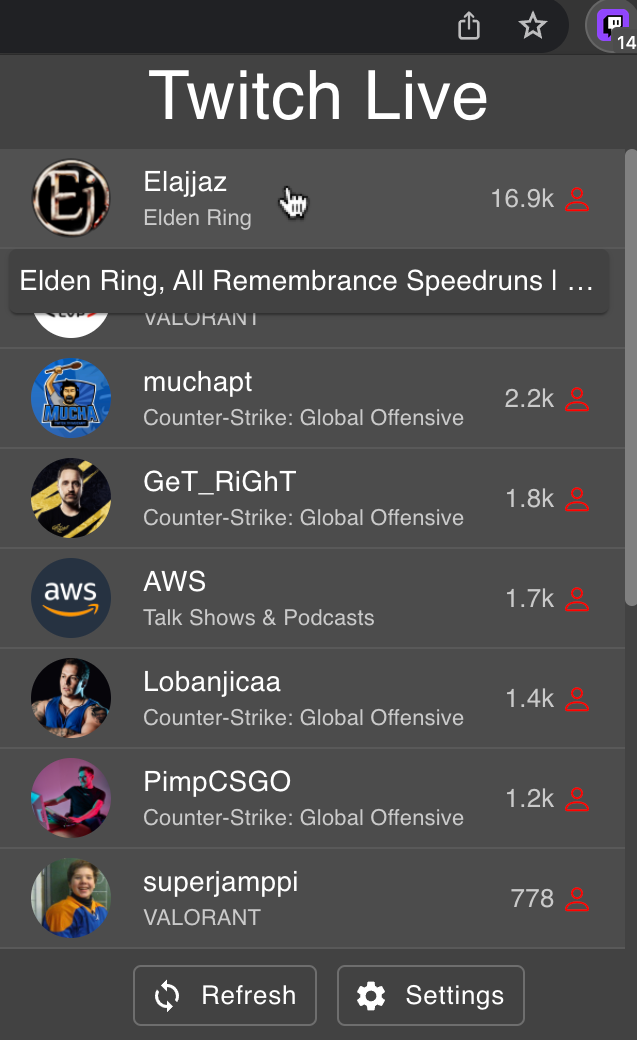
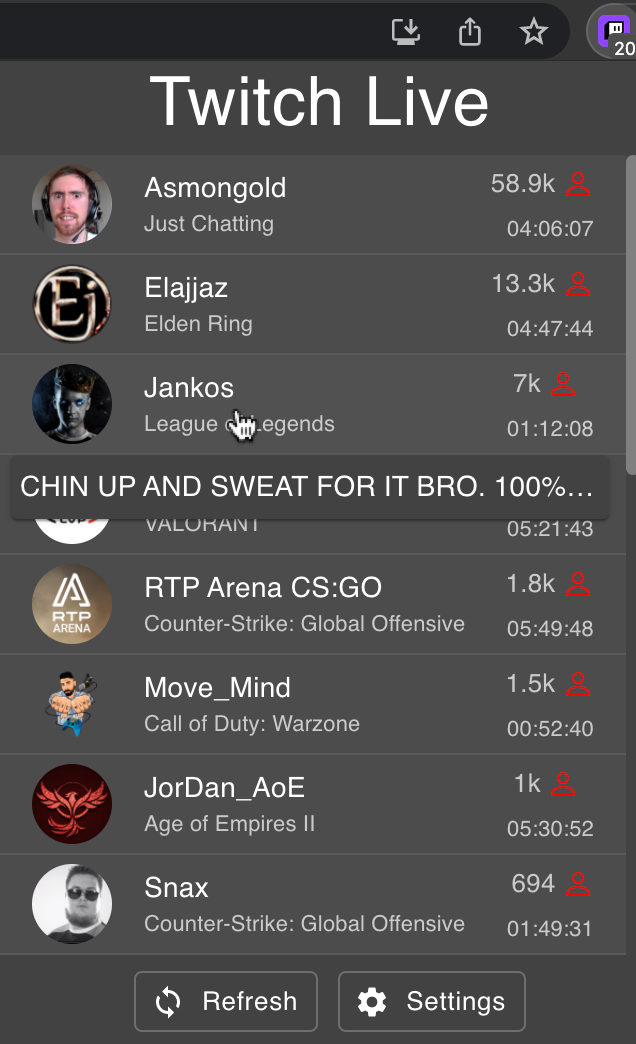
Add elapsed time (#18)
* Add debug code for the feature

* SetInterval for time update, remove debug code

* Update version and add new change log

* fix typo

* Change version description

diff --git a/src/views/LiveStreamPage/LiveStreamList/LiveStreamListItem/LiveStreamListItem.tsx b/src/views/LiveStreamPage/LiveStreamList/LiveStreamListItem/LiveStreamListItem.tsx
@@ -1,4 +1,4 @@
-import React from 'react';
+import React, { useEffect, useState } from 'react';
 
 import {
     Avatar,
@@ -10,7 +10,7 @@ import {
     Typography,
 } from '@material-ui/core';
 import { makeStyles } from '@material-ui/core/styles';
-import { formatViewers } from '../../../../utils/formatter';
+import { formatViewers, getElapsedTime } from '../../../../utils/formatter';
 import { FollowedLivestream } from '../../../../domain/infrastructure/twitch/twitch';
 import { ViewerIcon } from '../../../../components/SVG/viewerIcon';
 import { PopperTitle } from './PopperTitle';
@@ -24,9 +24,17 @@ const useStyles = makeStyles({
     gameText: {
         fontSize: 11,
     },
+    streamerDiv: {
+        paddingRight: 5,
+    },
     viewersText: {
         fontSize: 13,
         paddingRight: 3,
+    },
+    elapsedTimeText: {
+        fontSize: 11,
+        textAlign: 'right',
+        paddingBottom: 4,
     },
 });
 
@@ -36,6 +44,15 @@ export const LiveStreamListItem = (elem: FollowedLivestream) => {
     const handlePopoverOpen = (event: React.MouseEvent<HTMLElement, MouseEvent>) => {
         setAnchorEl(event.currentTarget);
     };
+    const [elapsedTime, setElapsedTime] = useState(getElapsedTime(elem.started_at));
+
+    useEffect(() => {
+        const timer = setInterval(() => {
+            setElapsedTime(getElapsedTime(elem.started_at));
+        }, 1000);
+
+        return () => clearInterval(timer);
+    }, [elem.started_at]);
 
     const handlePopoverClose = () => {
         setAnchorEl(null);
@@ -61,6 +78,7 @@ export const LiveStreamListItem = (elem: FollowedLivestream) => {
                     <Avatar src={elem.profile_image_url} />
                 </ListItemAvatar>
                 <ListItemText
+                    className={classes.streamerDiv}
                     primary={elem.display_name}
                     secondary={
                         <Typography
@@ -85,6 +103,14 @@ export const LiveStreamListItem = (elem: FollowedLivestream) => {
                         </Typography>
                         <ViewerIcon />
                     </IconButton>
+                    <Typography
+                        noWrap
+                        variant={'subtitle2'}
+                        color={'textSecondary'}
+                        className={classes.elapsedTimeText}
+                    >
+                        {elapsedTime}
+                    </Typography>
                 </ListItemSecondaryAction>
             </ListItem>
             <PopperTitle title={elem.title} anchorEl={anchorEl} open={open} />

diff --git a/src/utils/formatter.ts b/src/utils/formatter.ts
@@ -10,3 +10,17 @@ export const formatViewers = (viewers: number): string =>
  * @param {Date} date - Date to be converted to string
  */
 export const formatDate = (date: Date): string => date.toJSON().replace('T', ' ').split('.')[0];
+
+export const getElapsedTime = (streamTimestamp: string) => {
+    const streamDate = new Date(streamTimestamp);
+
+    const difference = Date.now() - streamDate.getTime();
+
+    const seconds = Math.floor((difference / 1000) % 60);
+    const minutes = Math.floor((difference / (1000 * 60)) % 60);
+    const hours = Math.floor((difference / (1000 * 60 * 60)) % 24);
+
+    return `${hours.toString().padStart(2, '0')}:${minutes
+        .toString()
+        .padStart(2, '0')}:${seconds.toString().padStart(2, '0')}`;
+};

diff --git a/CHANGELOG.md b/CHANGELOG.md
@@ -1,80 +1,85 @@
 # Changelog
 
+## 3.1.0 (April 5th, 2021)
+
+### Functionalities:
+- Shows how long a stream has been live
+
 ## 3.0.3 (March 15, 2021)
 
-### Fixes and Functionality:
+### Fixes:
 
 - Update extension description
 
 ## 3.0.2 (March 14, 2021)
 
-### Fixes and Functionality:
+### Functionalities:
 
 - Adds a badge icon with the current number of livestreams
 
 ## 3.0.1 (July 14, 2021)
 
-### Fixes and Functionality:
+### Fixes:
 
 - Fix extension name
 
 ## 3.0.0 (July 14, 2021)
 
-### Fixes and Functionality:
+### Functionalities:
 
 - Use of new Twitch endpoint Get Live Followed Streams
 - Use specific scopes to call the new endpoint
-- Removed button to sync follows
-- Refactored reducer and Twitch api code
+- Removes button to sync follows
+- Refactores reducer and Twitch api code
 
 ## 2.3.0 (April 30, 2021)
 
-### Fixes and Functionality:
+### Functionalities:
 
 - Display title on mouse over a stream 
 
 ## 2.2.0 (March 1, 2021)
 
-### Fixes and Functionality:
+### Functionalities:
 
-- Added "Just went live" notifications feature
-- Added background file to get token and set alarm
+- Adds "Just went live" notifications feature
+- Adds background file to get token and set alarm
 - On extension update, open the changelog page with the new features
 
 ## 2.1.2 (January 6, 2021)
 
-### Fixes and Functionality:
+### Fixes:
 
-- Upgrade **_axios_** version to fix vulnerability
-- Upgrade **_react-scripts_** version to fix vulnerability
-- Update linting rules
+- Upgrades **_axios_** version to fix vulnerability
+- Upgrades **_react-scripts_** version to fix vulnerability
+- Updates linting rules
 
 ## 2.1.1 (November 13, 2020)
 
-### Fixes and Functionality:
+### Functionalities:
 
-- Removed "storage" permission from manifest.json
+- Removes "storage" permission from manifest.json
 
 ## 2.1.0 (November 11, 2020)
 
-### Fixes and Functionality:
+### Functionalities:
 
-- Added Twitch authentication using OAuth2
-- Migrate all the api calls to the new Twitch API
-- Updated settings page with 2 buttons
+- Adds Twitch authentication using OAuth2
+- Migrates all the api calls to the new Twitch API
+- Updates settings page with 2 buttons
     - Switch Twitch account
     - Update follows list
 
 ## 2.0.0 (November 5, 2020)
 
-### Fixes and Functionality:
+### Functionalities:
 
-- Added a options page to manually add your favorite followers
-- Removed the extension options page
+- Adds an options' page to manually add your favorite followers
+- Removes the extension options page
 
 ## 1.0.0 (August 11, 2020)
 
-### Fixes and Functionality:
+### Functionalities:
 
-- List the favorite streamers that are live
-- Created an options html page to add/remove favorite streamers
+- Lists the favorite streamers that are live
+- Creates an options html page to add/remove favorite streamers

diff --git a/changelogs/3_1_0.md b/changelogs/3_1_0.md
@@ -1,0 +1,5 @@
+# Twitch Live Extension v3.1.0
+
+**_Twitch Live Extension_ 3.1.0** comes with a new feature! You can now see how long a stream has been live when you open the extension.
+
+![Extension](../assets/extension_hover_icon_changelog.png "Extension")
